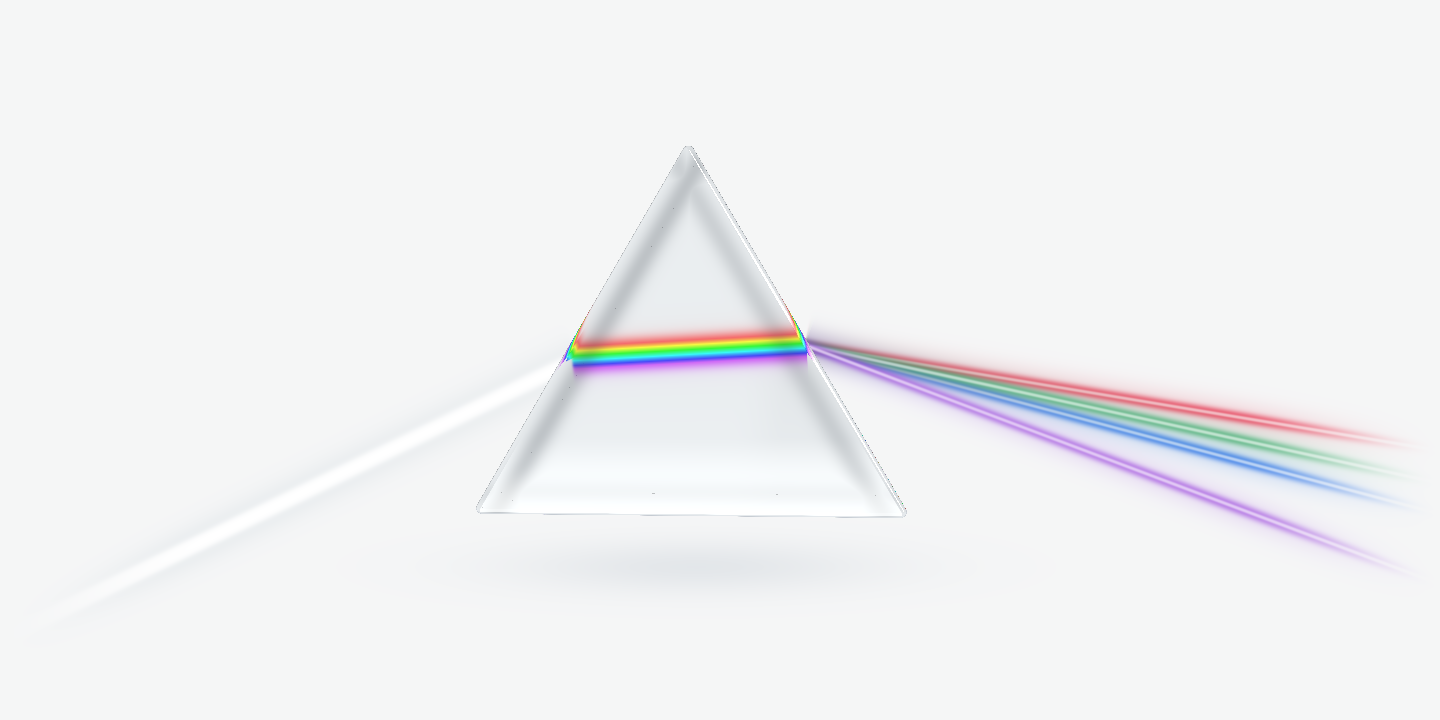
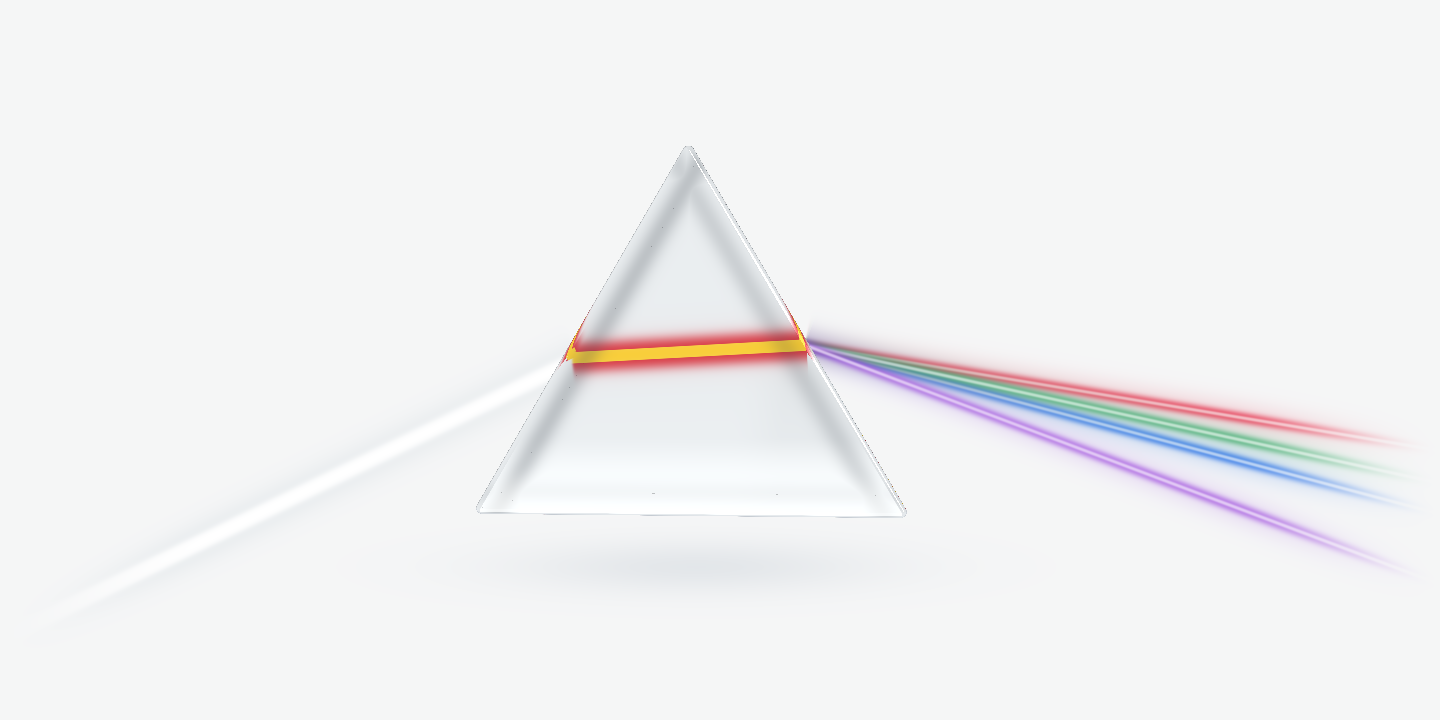
feat: Added Spanish flag colours inside the prism

Changed region(s): [[0.375, 0.4583, 0.5625, 0.55]]

diff --git a/docs/roadmap.md b/docs/roadmap.md
@@ -26,7 +26,7 @@ The Next.js App Router portal reads schema-v2 approved JSON and prerenders home,
 
 Home navigation uses compact edge-attached trapezoid links. Below 1024 pixels wide, one “Lista de partidos” button follows the areas; wider screens replace it with a mirrored “Por partidos” list on the right. Both columns reveal from their outer edges with GSAP and move text and background towards the centre on hover. Each list fits its longest label plus its outer gutter and 24 pixels of inner padding, with a 2.75-rem minimum height. Hover colours use a 0.5-second `ease-in-out` transition. Reduced motion bypasses animation, keyboard focus completes its column’s reveal, and breakpoint changes clean up old animations and listeners. Browser verification remains pending. Spanish labels, semantic navigation, skip links, focus styles, mobile layouts and explicit review/source states are implemented. Topic pages list formation links and availability. All 40 initial summaries show “Resumen todavía no disponible”; this does not establish programme publication status. The reader supports approved points, source citations, partial review and complete reviews with no identified proposals.
 
-A local visual prototype adds a vgpu glass prism, white incident light and four slowly wandering coloured beams to the homepage, keeping its title and background. The beam has 3D volume and shares the crystal's refracted depth: white light becomes one continuous rainbow band at entry and splits into four exterior paths only at exit. Output colours are named constants in `src/lib/prism-palette.ts`, ready for future party configuration. The glass now follows the VGPU homepage reference more closely, with nearly frontal perspective, a geometric rounded bevel, clearer transmission, internal reflections and a three-panel studio; no contour stroke is drawn. The scene is integrated as an absolute background behind the complete homepage, with the prism reduced to 75% of its previous size and anchored above the title, scrolling with the document. Its canvas spans the page height; only the page width clips the scene. It has no layout space or pointer interaction of its own, and a separate intro keeps the directories lower. The previous subtitle and home availability panel are removed. Reduced motion, offscreen suspension and a static fallback are implemented; the manual pause button has been removed. GPU validation and headless desktop/mobile images are verified; browser integration and device performance remain pending. Git publication of the visual iteration is authorised; remote CI and deployment remain unverified. Four rays do not change the five-formation catalogue. See [prototype details](portal.md#local-prism-prototype).
+A local visual prototype adds a vgpu glass prism, white incident light and four slowly wandering coloured beams to the homepage, keeping its title and background. The beam has 3D volume and shares the crystal's refracted depth: white light becomes one continuous red-yellow-red volume at entry, with the Spanish flag colours stacked vertically in a 1:2:1 ratio, and splits into four exterior paths only at exit. Output colours are named constants in `src/lib/prism-palette.ts`, ready for future party configuration. The glass now follows the VGPU homepage reference more closely, with nearly frontal perspective, a geometric rounded bevel, clearer transmission, internal reflections and a three-panel studio; no contour stroke is drawn. The scene is integrated as an absolute background behind the complete homepage, with the prism reduced to 75% of its previous size and anchored above the title, scrolling with the document. Its canvas spans the page height; only the page width clips the scene. It has no layout space or pointer interaction of its own, and a separate intro keeps the directories lower. The previous subtitle and home availability panel are removed. Reduced motion, offscreen suspension and a static fallback are implemented; the manual pause button has been removed. GPU validation and headless desktop/mobile images are verified; browser integration and device performance remain pending. Git publication of the visual iteration is authorised; remote CI and deployment remain unverified. Four rays do not change the five-formation catalogue. See [prototype details](portal.md#local-prism-prototype).
 
 CSS Modules apply page-wide official accents where verified, with a neutral fallback. Pending summaries are noindex and excluded from the sitemap; a public domain remains optional and unset. The separate build checks generated content, prerendered HTML and route fallback without a server. Interactive keyboard access, visual contrast and mobile rendering require browser verification. See [portal implementation](portal.md) for the logical implementation units and local checks. No deployment or remote CI success is claimed.
 

diff --git a/docs/portal.md b/docs/portal.md
@@ -40,7 +40,7 @@ GSAP and [ScrollTrigger](https://gsap.com/docs/v3/Plugins/ScrollTrigger/) reveal
 
 The homepage visual uses `vgpu` 0.6.0 and matching `@vgpu/wgsl` build tooling. The official Turbopack rule prepares the standalone WGSL fragment shader at build time; a dynamically imported client renderer owns the canvas, GPU device and animation loop. The scene is an absolutely positioned background spanning the homepage shell, behind navigation, title, directories and footer in its isolated stacking context. It occupies no space in document flow, has no pointer interaction, and scrolls with the page. A stable small-viewport reference anchors the prism vertically above the title, at 75% of its previous displayed size. Shared CSS properties set its scale and vertical anchor for both the live canvas and fallback image; the intro places the title below the solid with responsive clearance. The shader maps the full page height without centring the prism on the document. Only the page's horizontal edges clip the scene, with no separate hero-height crop. A separate intro reserves the opening space so directories remain lower on the page. The title, directories and other routes remain statically rendered. The existing light background and system typography are preserved. The fallback poster follows the shader's viewport scale, including narrow screens.
 
-The shader uses analytic bounds and a rounded triangular distance field for a real geometric bevel, viewed through a nearly frontal perspective camera. It shades the crystal with subtle thickness-dependent tint, Fresnel response, up to six total-internal-reflection segments and a sparse three-panel studio environment. Broad neutral reflection returns keep the clear material legible against the pale page; no wireframe or contour stroke is drawn. White and coloured beams are finite Gaussian volumes integrated along the viewing ray, rather than screen-space strokes. At the entry face the white beam becomes one continuous rainbow volume, following a single interior trajectory. Only at the exit face does it split into four independently wandering exterior paths, all sharing that boundary point. The four output colours are named normalised-sRGB constants in `src/lib/prism-palette.ts`, supplied to the shader as a uniform palette; the interior spectrum remains independent of those future party colours. The viewing ray also refracts through the glass, so the enclosed light shares its depth and optical distortion. Independent slow drift remains deliberately stylised. These four colours are an abstract brand metaphor, not a mapping to or a reduction of the five-formation catalogue. No editorial content or formation accents change.
+The shader uses analytic bounds and a rounded triangular distance field for a real geometric bevel, viewed through a nearly frontal perspective camera. It shades the crystal with subtle thickness-dependent tint, Fresnel response, up to six total-internal-reflection segments and a sparse three-panel studio environment. Broad neutral reflection returns keep the clear material legible against the pale page; no wireframe or contour stroke is drawn. White and coloured beams are finite Gaussian volumes integrated along the viewing ray, rather than screen-space strokes. At the entry face the white beam becomes one continuous volume carrying the Spanish flag colours: red, yellow and red from top to bottom across the beam, with a double-width central yellow band and softly filtered boundaries. Named shader constants define these interior colours, independently of the output palette; all three bands follow a single interior trajectory. Only at the exit face does it split into four independently wandering exterior paths, all sharing that boundary point. The four output colours are named normalised-sRGB constants in `src/lib/prism-palette.ts`, supplied to the shader as a uniform palette; the interior flag remains independent of those future party colours. The viewing ray also refracts through the glass, so the enclosed light shares its depth and optical distortion. Independent slow drift remains deliberately stylised. These four colours are an abstract brand metaphor, not a mapping to or a reduction of the five-formation catalogue. No editorial content or formation accents change.
 
 The [VGPU debug homepage](https://vgpu.sh/?debug) and its public rendering resources were inspected on 17 October 2026. Its 1.645 glass IOR, near-frontal framing, rounded mesh edge and separate light-theme reflection accents informed this iteration. The local shader adapts those visual principles to Prisma's existing background and beam behaviour; it does not import the reference homepage or its complete rendering pipeline.
 
